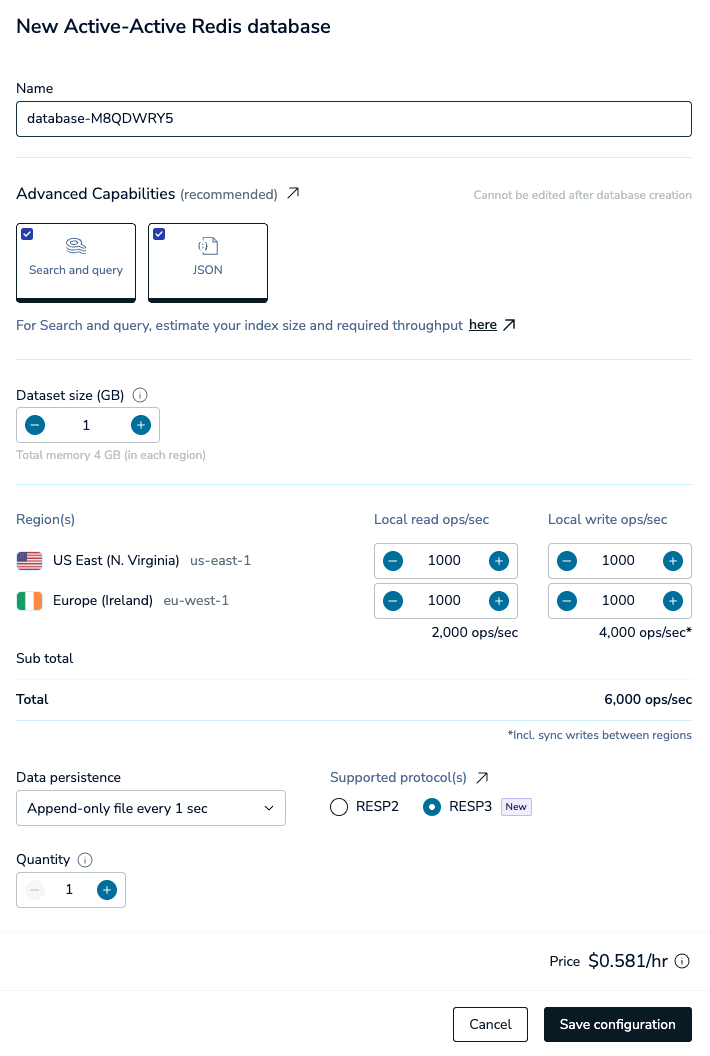
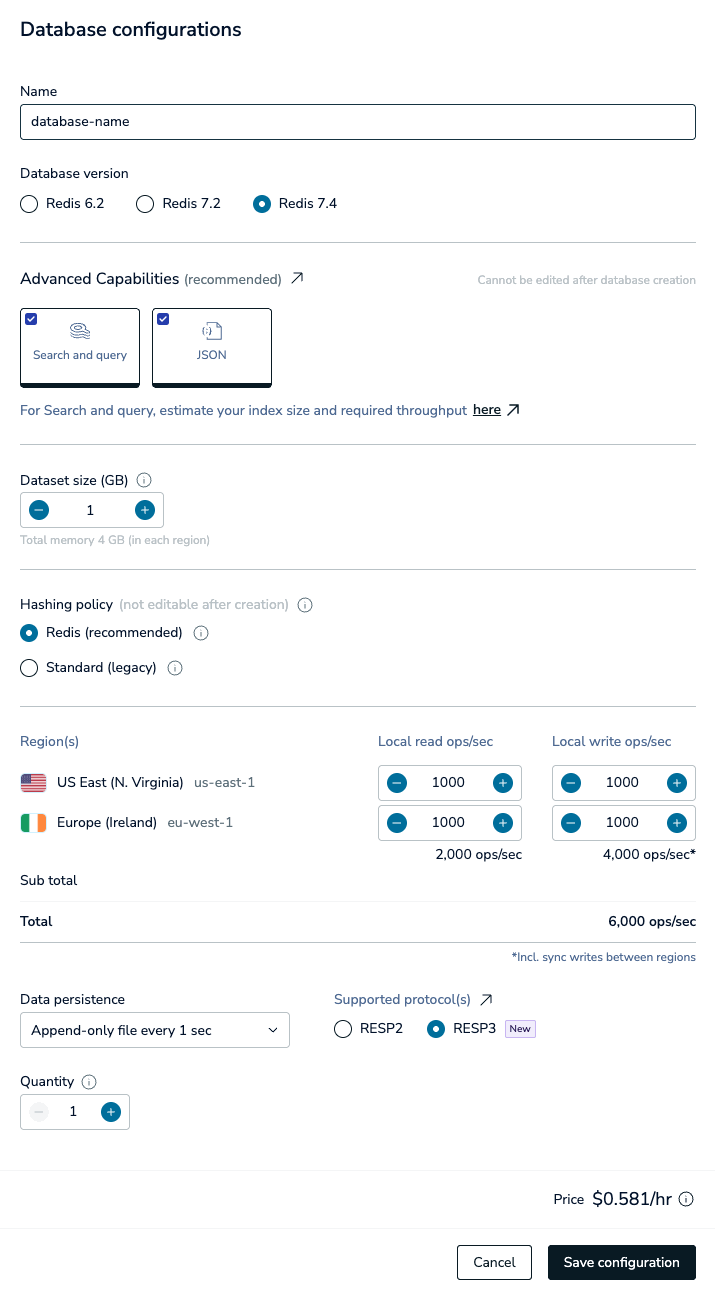
Active-Active

diff --git a/content/operate/rc/databases/create-database/create-active-active-database.md b/content/operate/rc/databases/create-database/create-active-active-database.md
@@ -58,7 +58,6 @@ The **Setup** tab specifies general settings for your Redis deployment.
 There are three sections on this tab:
 
 - [General settings](#general-settings) include the cloud provider details and specific configuration options.
-- [Version](#version) lets you choose the Redis version of your databases.
 - [Advanced options](#advanced-options) define settings for high availability and security. Configurable settings vary according to cloud provider.
 
 #### General settings {#general-settings}
@@ -76,12 +75,6 @@ Use the checkboxes in the list to select or remove regions.  The Search box lets
 You can use a region's Remove button to remove it from the list.
 
 {{<image filename="images/rc/icon-region-delete.png" width="30px" alt="Select the Delete button to remove a region from the list." >}}
-
-#### Version {#version}
-
-{{<image filename="images/rc/subscription-new-flexible-version-section.png" width="75%" alt="Version selection between Redis 6.2 and 7.2" >}}
-
-The **Version** section lets you choose the Redis version of your databases. Choose **Redis 7.4** if you want to use the latest advanced features of Redis.
 
 #### Advanced options {#advanced-options}
 
@@ -124,6 +117,7 @@ This opens the **New Active-Active Redis Database** dialog, which lets you defin
 By default, you're shown basic settings, which include:
 
 - **Name**: A custom name for your database.
+- **Version**: The Redis version for your database. We recommend you choose the latest available version. 
 - **Advanced Capabilities**: Advanced data types or features used by the database. Active-Active databases support the [JSON]({{< relref "/operate/oss_and_stack/stack-with-enterprise/json" >}}) data type and [Search and query]({{< relref "/operate/oss_and_stack/stack-with-enterprise/search" >}}) features.
 
     {{<image filename="images/rc/active-active-json-detail.png" width="75%" alt="When you create an Active-Active database, you can select the JSON and Search and query advanced capabilities." >}}  
@@ -135,6 +129,8 @@ By default, you're shown basic settings, which include:
 - **Dataset size**: The amount of data needed for your dataset in GB. 
 
     For Search and query databases, use the [Sizing calculator](https://redis.io/redisearch-sizing-calculator/) to estimate your index size and throughput requirements. When you're entering the dataset size for your database, add the estimated index size from the Sizing calculator to your expected dataset size.
+
+- **Hashing policy**: Determines how data is distributed across multiple Redis processes of a database. Available options depend on your account creation date. See [Clustering]({{< relref "/operate/rc/databases/configuration/clustering#manage-the-hashing-policy" >}}) for more information.
 
 - **Throughput**: When you create an Active-Active database, you define the throughput for each instance. The total operations per second combines the total read ops/sec and applies the write ops/sec for each region across every region. 
 
